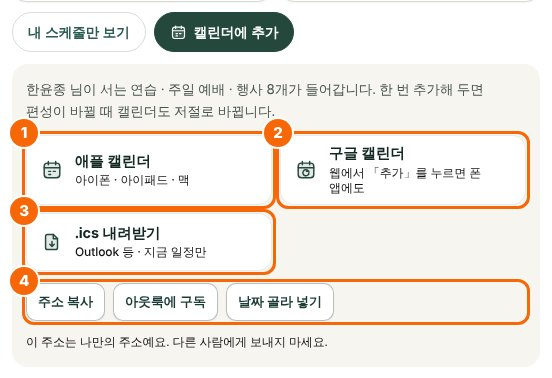
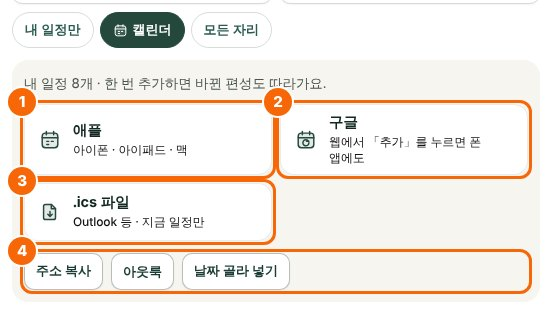
Schedule: compact controls, PDF in top toolbar; church address in calendar events
- Calendar LOCATION / Google location: "토론토영락교회 본당, 650 McNicoll Ave, Toronto, ON M2H 2E1"
  (custom place from the memo keeps the church address; a full street address is kept as-is)
- Top toolbar: 변경 기록 · PDF · 엑셀 올리기 (shorter labels, one row on phones)
- Range / person selects, 내 일정만 · 캘린더 · 모든 자리 and legend on one line
  (two lines on phones); hint text and role note removed
- Calendar panel trimmed: short line, three compact cards, small footer buttons
- Guide text and screenshots updated

Claude-Session: https://claude.ai/code/session_014VDXCwRXQi55bbQHujsnNa

diff --git a/public/hub/hubshim.js b/public/hub/hubshim.js
@@ -539,8 +539,8 @@ function offOne(key) {
 }
 
 /* ---------------------------------------------------------------- V14 스케줄 화면 — 청년부 앱(church-app v11) 스케줄과 같은 차림
- * 머리(제목 · 카드/테이블) → 기간 · 사람 강조 (반반) → [내 스케줄만 보기] [캘린더에 추가] (누르면 아래로 펼침)
- * → "○○ 자리 기준 순서 · 방송 칸은 숨김 [모든 자리 보기]" → PDF → 안내 · 범례 → 표/카드.
+ * 머리(제목 · 카드/테이블) → 한 줄: 기간 · 사람 강조 · [내 일정만] [캘린더] [모든 자리] · 범례 (폰은 두 줄)
+ * → 캘린더를 누르면 아래로 펼침 → 표/카드. PDF 는 맨 위 도구 줄(routes/schedule.js).
  * 테이블 날짜 칸은 한 칸에 "연습일(작게) / 주일(굵게)" — 따로 있던 연습 칸 · 곡 칸은 뺌 (연습 시간 · 곡은 날짜를 누르면 나옴) */
 var ST_KIND_NAME = { sing: '싱어', keys: '건반', drum: '드럼', bass: '베이스', egt: '일렉', agt: '어쿠기타' };
 var stViewGroupsBase = stViewGroups;
@@ -584,16 +584,15 @@ function calBox() {
   else if (L && L.feed) {
     var items = (L.items || []).filter(function (it) { return !it.off; });
     var ics = (window.PH_BASE || '') + '/cal/mine.ics?team=' + encodeURIComponent(HUB.team || '') + '&ids=' + encodeURIComponent(items.map(function (it) { return it.id; }).join(','));
-    h += '<p class="calh">' + esc(dispName(D.who)) + ' 님이 서는 연습 · 주일 예배 · 행사' + (items.length ? ' ' + items.length + '개' : '') + '가 들어갑니다. 한 번 추가해 두면 편성이 바뀔 때 캘린더도 저절로 바뀝니다.</p>' +
+    h += '<p class="calh">내 일정 ' + items.length + '개 · 한 번 추가하면 바뀐 편성도 따라가요.</p>' +
       '<div class="calbtns">' +
-        '<a class="calb" href="' + esc(L.feed.webcal) + '">' + calIco('apple') + '<span>애플 캘린더<small>아이폰 · 아이패드 · 맥</small></span></a>' +
-        '<a class="calb" href="' + esc(L.feed.google) + '" target="_blank" rel="noopener">' + calIco('google') + '<span>구글 캘린더<small>웹에서 「추가」를 누르면 폰 앱에도</small></span></a>' +
-        (items.length ? '<a class="calb" href="' + esc(ics) + '">' + calIco('file') + '<span>.ics 내려받기<small>Outlook 등 · 지금 일정만</small></span></a>' : '') +
+        '<a class="calb" href="' + esc(L.feed.webcal) + '">' + calIco('apple') + '<span>애플<small>아이폰 · 아이패드 · 맥</small></span></a>' +
+        '<a class="calb" href="' + esc(L.feed.google) + '" target="_blank" rel="noopener">' + calIco('google') + '<span>구글<small>웹에서 「추가」를 누르면 폰 앱에도</small></span></a>' +
+        (items.length ? '<a class="calb" href="' + esc(ics) + '">' + calIco('file') + '<span>.ics 파일<small>Outlook 등 · 지금 일정만</small></span></a>' : '') +
       '</div>' +
-      '<div class="calfoot"><button type="button" class="btn mini" onclick="calCopy(this)">주소 복사</button>' +
-        (L.feed.outlook ? '<a class="btn mini" href="' + esc(L.feed.outlook) + '" target="_blank" rel="noopener">아웃룩에 구독</a>' : '') +
-        '<button type="button" class="btn mini" data-mysched data-team="' + esc(HUB.team || '') + '">날짜 골라 넣기</button></div>' +
-      '<p class="calnote">이 주소는 나만의 주소예요. 다른 사람에게 보내지 마세요.</p>';
+      '<div class="calfoot"><button type="button" class="btn mini" onclick="calCopy(this)" title="나만의 주소예요 — 다른 사람에게 보내지 마세요">주소 복사</button>' +
+        (L.feed.outlook ? '<a class="btn mini" href="' + esc(L.feed.outlook) + '" target="_blank" rel="noopener">아웃룩</a>' : '') +
+        '<button type="button" class="btn mini" data-mysched data-team="' + esc(HUB.team || '') + '">날짜 골라 넣기</button></div>';
   }
   return h + '</div>';
 }
@@ -673,22 +672,22 @@ function schedTab() {
   }).join('') + '</div>';
 
   var kind = table ? stViewerKind() : '';
-  var roleBar = kind ? '<div class="strole"><span>' + (ST.allCols ? '모든 자리를 기본 순서로 보는 중' : esc(ST_KIND_NAME[kind] || '내') + ' 자리 기준 순서' + (D.committee ? '' : ' · 방송 칸은 숨김')) + '</span>' +
-    '<button type="button" class="btn mini" onclick="ST.allCols=!ST.allCols;render();">' + (ST.allCols ? '내 자리 기준으로' : '모든 자리 보기') + '</button></div>' : '';
+  var roleBtn = kind ? '<button type="button" class="stmb sm' + (ST.allCols ? ' on' : '') + '" aria-pressed="' + (ST.allCols ? 'true' : 'false') + '" title="' +
+    esc(ST.allCols ? '모든 자리를 기본 순서로 보는 중' : (ST_KIND_NAME[kind] || '내') + ' 자리 기준 순서' + (D.committee ? '' : ' · 방송 칸은 숨김')) + '" onclick="ST.allCols=!ST.allCols;render();">모든 자리</button>' : '';
 
   return stOffCard() + '<div class="panel stpanel"><div class="sechead"><span class="chip">스케줄</span>' + viewSeg + '</div>' +
-      '<div class="sttools">' + rangeSel + hlSel + '</div>' +
-      (D.who ? '<div class="stmbs">' +
-        '<button type="button" class="stmb' + (ST.onlyMine ? ' on' : '') + '" aria-pressed="' + (ST.onlyMine ? 'true' : 'false') + '" onclick="stOnlyMine(!ST.onlyMine)">내 스케줄만 보기</button>' +
-        '<button type="button" class="stmb' + (CAL.open ? ' on' : '') + '" aria-expanded="' + (CAL.open ? 'true' : 'false') + '" onclick="calToggle()">' + calIco('apple') + '캘린더에 추가</button></div>' + calBox() : '') +
-      roleBar +
-      '<div class="docbar">' + docBtn('스케줄 PDF 미리보기 · 다운로드', 'hubDoc(\'hubScheduleDoc\',[TOKEN,ST.range],\'stDocMsg\')') + '<p class="msg docmsg" id="stDocMsg"></p></div>' +
-      '<p class="hint sthint">' + (picking ? '안 되는 날짜를 눌러 고른 뒤 위 칸에 사유를 적고 저장하세요.'
-        : (D.canEdit ? '칸을 누르면 바로 배정합니다. 날짜를 누르면 그날 자세히 볼 수 있어요.'
-                     : '날짜를 누르면 그날 편성과 불가 사유를 볼 수 있어요.')) + '</p>' +
-      '<p class="lg"><span class="tn off">불가</span><span class="tn hl">강조</span><span class="tn guest">객원</span></p>' +
+      '<div class="stctl"><div class="sttools">' + rangeSel + hlSel + '</div>' +
+        '<div class="stmbs">' +
+          (D.who ? '<button type="button" class="stmb sm' + (ST.onlyMine ? ' on' : '') + '" aria-pressed="' + (ST.onlyMine ? 'true' : 'false') + '" onclick="stOnlyMine(!ST.onlyMine)">내 일정만</button>' +
+            '<button type="button" class="stmb sm' + (CAL.open ? ' on' : '') + '" aria-expanded="' + (CAL.open ? 'true' : 'false') + '" onclick="calToggle()">' + calIco('apple') + '캘린더</button>' : '') +
+          roleBtn +
+          '<span class="lg"><span class="tn off">불가</span><span class="tn hl">강조</span><span class="tn guest">객원</span></span>' +
+        '</div></div>' +
+      (D.who ? calBox() : '') +
+      '<p class="msg docmsg" id="stDocMsg"></p>' +
+      (picking ? '<p class="hint sthint">안 되는 날짜를 눌러 고른 뒤 위 칸에 사유를 적고 저장하세요.</p>' : '') +
       bar +
-      (ST.onlyMine && !shown.length ? '<p class="empty" style="margin:14px 4px;">이 기간에 ' + esc(dispName(D.who)) + ' 님이 서는 날이 없어요. 기간을 바꾸거나 \'내 스케줄만 보기\'를 꺼 보세요.</p>' :
+      (ST.onlyMine && !shown.length ? '<p class="empty" style="margin:14px 4px;">이 기간에 ' + esc(dispName(D.who)) + ' 님이 서는 날이 없어요. 기간을 바꾸거나 \'내 일정만\'을 꺼 보세요.</p>' :
       !table ? stCards(groups, kn, picking, mineSet)
         : '<div class="stwrap"><table class="st"><thead>' + head1 + head2 + '</thead><tbody>' + body + '</tbody></table></div>') +
       '<p class="msg" id="stMsg"></p>' +

diff --git a/routes/guide.js b/routes/guide.js
@@ -197,28 +197,27 @@ const SECTIONS = [
     ${stageBody()}`)],
   ['schedule', '스케줄표', sec('schedule', 7, '스케줄표', '날짜별로 누가 어떤 자리에 서는지, 언제 연습하는지 한눈에 봐요.', `
     ${fig('schedule', '스케줄표 화면 (테이블)', [
-      '<b>변경 기록</b> — 누가 · 언제 · 어느 예배의 편성 · 불가 · 연습일을 바꿨는지 봐요. 옆의 <b>엑셀로 스케줄 올리기</b>는 관리자만 보여요.',
+      '<b>변경 기록 · PDF · 엑셀 올리기</b> — 누가 언제 무엇을 바꿨는지 보고, 스케줄표를 PDF로 받아요. <b>엑셀 올리기</b>는 관리자만 보여요.',
       '<b>내가 안 되는 날</b> — 날짜를 누르면 바로 불가로 저장돼요. 다시 누르면 지워져요. <em>둘 다 · 금요일 연습만 · 주일만</em>과 사유도 고를 수 있어요.',
       '<b>카드 / 테이블</b> — 보기 방식을 바꿔요. 카드는 날짜마다 한 장, 테이블은 여러 주를 한 표로.',
       '<b>기간 · 사람 강조</b> — 보여줄 기간을 고르고, 사람을 고르면 그 사람이 서는 칸이 옅게 강조돼요.',
-      '<b>내 스케줄만 보기 · 캘린더에 추가</b> — 내 날만 남기거나, 내가 서는 날을 내 캘린더에 넣어요. (아래 그림)',
+      '<b>내 일정만 · 캘린더 · 모든 자리</b> — 내 날만 남기고, 내가 서는 날을 내 캘린더에 넣고(아래 그림), 칸을 기본 순서로 봐요.',
       '<b>날짜</b> — 작은 줄이 연습일, 굵은 줄이 주일이에요. 누르면 그날 편성 · 불가 · 연습 시간을 자세히 보고, 연습일 줄을 누르면 연습일을 바꿔요.'])}
     <ul class="gd-list">
-      <li><b>칸 순서</b> — 테이블은 내 포지션에 맞춰 칸 순서가 바뀌어요(싱어는 싱어 먼저, 세션은 내 악기 먼저). <b>모든 자리 보기</b>를 누르면 기본 순서로 돌아가요.</li>
+      <li><b>칸 순서</b> — 테이블은 내 포지션에 맞춰 칸 순서가 바뀌어요(싱어는 싱어 먼저, 세션은 내 악기 먼저). <b>모든 자리</b>를 누르면 기본 순서로 돌아가요.</li>
       <li><b>칸을 누르면</b> 바로 배정해요. 색 표시: <b>불가</b>(안 되는 사람) · <b>강조</b>(고른 사람) · <b>객원</b>(점선). 맨 끝 <b>불가</b> 칸에 그날 안 되는 사람이 모여요.</li>
       <li><b>바뀐 곳 강조</b> — 마지막으로 본 뒤 다른 사람이 바꾼 칸은 테두리와 <em>변경</em> 표시가 붙어요. <b>확인</b>을 누르면 강조가 꺼져요.</li>
-      <li><b>스케줄 PDF</b> — 인쇄하거나 카톡으로 보낼 PDF를 만들어요.</li>
-      <li><b>연습 시간 · 장소</b> — 연습일을 바꿀 때 <em>메모</em>에 "오후 7시 · 소예배실"처럼 적으면 연습 콘티 · 캘린더 · 안내 메일에 그 시간이 들어가요. 비워 두면 관리에서 정한 기본 시간이에요.</li>
+            <li><b>연습 시간 · 장소</b> — 연습일을 바꿀 때 <em>메모</em>에 "오후 7시 · 소예배실"처럼 적으면 연습 콘티 · 캘린더 · 안내 메일에 그 시간이 들어가요. 비워 두면 관리에서 정한 기본 시간이에요.</li>
     </ul>
-    <h3>캘린더에 추가 — 스케줄이 바뀌면 캘린더도 같이</h3>
-    ${fig('mysched', '캘린더에 추가', [
+    <h3>캘린더 — 스케줄이 바뀌면 캘린더도 같이</h3>
+    ${fig('mysched', '캘린더', [
       '<b>애플 캘린더</b> — 아이폰 · 아이패드 · 맥 캘린더에 <b>구독 캘린더</b>로 들어가요.',
       '<b>구글 캘린더</b> — 구글 캘린더 웹에서 <em>추가</em>를 누르면 폰의 구글 캘린더 앱에도 나와요.',
       '<b>.ics 내려받기</b> — 지금 일정만 파일 하나로 받아요(아웃룩 등). 그 순간의 사본이라 바뀌어도 따라가지 않아요.',
-      '<b>주소 복사 · 아웃룩에 구독 · 날짜 골라 넣기</b> — 다른 캘린더 앱에 주소를 붙여 넣거나, 넣을 날만 골라 하나씩 넣어요.'])}
+      '<b>주소 복사 · 아웃룩 · 날짜 골라 넣기</b> — 다른 캘린더 앱에 주소를 붙여 넣거나, 넣을 날만 골라 하나씩 넣어요.'])}
     <p>애플 · 구글 · 아웃룩으로 한 번 구독해 두면, 앞으로 새로 배정되는 날도 저절로 들어오고 편성 · 연습 시간이 바뀌거나 불가로 표시하면 캘린더에서도 바뀌거나 빠져요. 아이폰 · 맥 · 아웃룩은 몇 시간 안에, 구글은 반나절쯤 걸릴 수 있어요.</p>
     ${warn('구독 주소는 나만의 주소예요. 다른 사람에게 보내지 마세요.')}
-    <p>캘린더 일정 제목은 <b>3부찬양팀 연습 - 피아노</b> · <b>3부찬양팀 주일 - 피아노</b>처럼 나오고, 일정 안에는 안내 메일과 같은 순서로 시간 · 장소, 내 포지션, 콘티 곡, 함께 서는 분, (주일은) 연습 녹음, 유튜브로 전곡 듣기, 콘티 링크가 적혀 있어요.</p>
+    <p>캘린더 일정 제목은 <b>3부찬양팀 연습 - 피아노</b> · <b>3부찬양팀 주일 - 피아노</b>처럼 나오고, 위치는 <b>토론토영락교회 본당 (650 McNicoll Ave)</b>으로 들어가 지도에서 바로 열려요. 일정 안에는 안내 메일과 같은 순서로 시간 · 장소, 내 포지션, 콘티 곡, 함께 서는 분, (주일은) 연습 녹음, 유튜브로 전곡 듣기, 콘티 링크가 적혀 있어요.</p>
 `)],
 
   ['events', '주일 외 찬양', sec('events', 8, '주일 외 찬양', '주일예배가 아닌 날(성탄절 · 송구영신예배 · 부흥회 등)에 서는 일정을 따로 관리해요.', `
@@ -283,7 +282,7 @@ const SECTIONS = [
     <details class="gd-q"><summary>화면이 이상해요 / 옛날 화면이에요</summary><p>배너 오른쪽 위 <b>새로고침</b> 버튼을 누르거나 페이지를 다시 열어 보세요.</p></details>
     <details class="gd-q"><summary>못 보는 메뉴가 있어요</summary><p>객원 멤버에게는 연습 콘티 · 주일 외 찬양 · 라이브러리가 보이지 않아요. 공지 및 모임 · 장비 · 수리는 지금 모두에게 잠시 숨겨 두었어요. 정식 팀원인데 다른 메뉴가 안 보이면 관리자에게 문의하세요.</p></details>
     <details class="gd-q"><summary>연습 시간이 바뀌었어요</summary><p>스케줄표에서 그 예배의 <b>연습</b> 칸을 눌러 날짜를 고르고, <b>메모</b>에 "오후 7시 · 소예배실"처럼 적어 저장하세요. 연습 콘티 · 캘린더 · 안내 메일에 바로 반영돼요. 이미 안내 메일이 나갔다면 관리자가 <b>관리 → 자동 안내 → 지금 보내기</b>([변경] 체크)로 다시 알려요.</p></details>
-    <details class="gd-q"><summary>내 캘린더에 서는 날을 넣고 싶어요</summary><p>스케줄표의 <b>캘린더에 추가</b>를 누르고 애플 캘린더 · 구글 캘린더 중 하나를 고르세요. 한 번만 하면 바뀐 스케줄도 저절로 따라가요.</p></details>`)],
+    <details class="gd-q"><summary>내 캘린더에 서는 날을 넣고 싶어요</summary><p>스케줄표의 <b>캘린더</b>를 누르고 애플 · 구글 중 하나를 고르세요. 한 번만 하면 바뀐 스케줄도 저절로 따라가요.</p></details>`)],
 ];
 
 router.get('/guide', async (req, res) => {

diff --git a/lib/practiceView.js b/lib/practiceView.js
@@ -160,9 +160,17 @@ function calEvent(team, g, mine, baseUrl) {
     details: [pos.length ? '내 포지션: ' + pos.join(' · ') : '', '연습 콘티: ' + url].filter(Boolean).join('\n'), url,
   };
 }
+/** 캘린더 위치 — 지도 앱이 알아보도록 교회 주소까지 ("토론토영락교회 본당, 650 McNicoll Ave, Toronto, ON M2H 2E1").
+ *  메모에 다른 곳 주소(숫자로 시작하는 번지)를 적었으면 그대로 */
+const CHURCH = '토론토영락교회', CHURCH_ADDR = '650 McNicoll Ave, Toronto, ON M2H 2E1';
+function calLocation(place) {
+  const p = String(place || '').trim();
+  if (/\d+\s+[A-Za-z]/.test(p)) return p;
+  return `${CHURCH} ${(p || '본당').replace(CHURCH, '').trim() || '본당'}, ${CHURCH_ADDR}`;
+}
 function googleCalUrl(ev) {
   const e = ev.end ? { date: ev.date, time: ev.end } : endOf(ev.date, ev.time);
-  const q = new URLSearchParams({ action: 'TEMPLATE', text: ev.title, dates: stamp(ev.date, ev.time) + '/' + stamp(e.date, e.time), ctz: TZ, details: ev.details, location: ev.place });
+  const q = new URLSearchParams({ action: 'TEMPLATE', text: ev.title, dates: stamp(ev.date, ev.time) + '/' + stamp(e.date, e.time), ctz: TZ, details: ev.details, location: calLocation(ev.place) });
   return 'https://calendar.google.com/calendar/render?' + q.toString();
 }
 const icsEsc = (s) => String(s || '').replace(/\\/g, '\\\\').replace(/\n/g, '\\n').replace(/([,;])/g, '\\$1');
@@ -171,7 +179,7 @@ function vevent(ev, now) {
   const e = ev.end ? { date: ev.date, time: ev.end } : endOf(ev.date, ev.time);
   const uid = ev.uid || `practice-${ev.date}-${require('crypto').createHash('sha1').update(ev.title).digest('hex').slice(0, 10)}@praise-broadcast-hub`;
   return ['BEGIN:VEVENT', `UID:${uid}`, `DTSTAMP:${now}`, `DTSTART;TZID=${TZ}:${stamp(ev.date, ev.time)}`, `DTEND;TZID=${TZ}:${stamp(e.date, e.time)}`,
-    `SUMMARY:${icsEsc(ev.title)}`, `LOCATION:${icsEsc(ev.place)}`, `DESCRIPTION:${icsEsc(ev.details)}`, `URL:${ev.url}`,
+    `SUMMARY:${icsEsc(ev.title)}`, `LOCATION:${icsEsc(calLocation(ev.place))}`, `DESCRIPTION:${icsEsc(ev.details)}`, `URL:${ev.url}`,
     'BEGIN:VALARM', 'ACTION:DISPLAY', `DESCRIPTION:${icsEsc(ev.alarm || '찬양 연습')}`, 'TRIGGER:-PT1H', 'END:VALARM',
     'END:VEVENT'];
 }
@@ -189,4 +197,4 @@ function icsText(evs, cal) {
     .concat(['END:VCALENDAR']).join('\r\n') + '\r\n';
 }
 
-module.exports = { groups, weekNotice, standing, targetName, md, whenOf, calEvent, googleCalUrl, icsText, enTime };
+module.exports = { calLocation, groups, weekNotice, standing, targetName, md, whenOf, calEvent, googleCalUrl, icsText, enTime };

diff --git a/public/hub/yn-adapt.css b/public/hub/yn-adapt.css
@@ -482,3 +482,27 @@ html:not([data-theme="light"]) .yn a.calb { background: rgba(255,255,255,.04); b
 }
 html[data-theme="light"] body .yn .stpanel .lg .tn.hl.hl, html[data-theme="light"] body .yn .stpanel .tp.hl.hl { background: #DCE6E0 !important; color: #1F3F33 !important; }
 html[data-theme="light"] .yn .stpanel .lg .tn.off { background: #F3E9E5 !important; color: #9A4B3C !important; }
+
+/* V14.1 — 조작 줄 한 줄로 (기간 · 사람 · 내 일정만 · 캘린더 · 모든 자리 · 범례) */
+.yn .stpanel .stctl { display: flex; flex-wrap: wrap; align-items: center; gap: 8px; margin: 0 4px 12px; }
+.yn .stpanel .stctl .sttools { display: flex !important; gap: 8px; padding: 0; flex: 0 1 380px; min-width: 0; }
+.yn .stpanel .stctl .sttools select { flex: 1 1 0; min-width: 0; min-height: 38px; padding-top: 6px; padding-bottom: 6px; font-size: 14px; border-radius: 10px !important; }
+.yn .stpanel .stctl .stmbs { margin: 0; flex: 1 1 auto; align-items: center; gap: 6px; }
+.yn .stmb.sm { min-height: 36px; padding: 0 12px; font-size: 13px; gap: 5px; }
+.yn .stmb.sm .calic { width: 15px; height: 15px; }
+.yn .stpanel .stctl .lg { margin: 0 0 0 auto; gap: 4px; }
+.yn .stpanel .stctl .lg .tn { padding: 1px 8px; font-size: 11.5px; }
+.yn .stpanel #stDocMsg:empty { display: none; }
+.yn .stpanel #stDocMsg { margin: 0 4px 8px; }
+@media (max-width: 640px) {
+  .yn .stpanel .stctl .sttools { flex: 1 1 100%; }
+  .yn .stpanel .stctl .lg { display: none; }
+}
+.yn .calbox { padding: 12px; }
+.yn .calbox .calh { margin-bottom: 10px; }
+@media (max-width: 560px) {
+  .yn .calbtns { grid-template-columns: repeat(3, 1fr); gap: 6px; }
+  .yn a.calb { flex-direction: column; justify-content: center; gap: 4px; min-height: 64px; padding: 8px 4px; text-align: center; font-size: 12.5px; }
+  .yn a.calb small { display: none; }
+  .yn .calfoot { gap: 6px; margin-top: 8px; }
+}

diff --git a/routes/schedule.js b/routes/schedule.js
@@ -86,7 +86,7 @@ router.get('/schedule', requireTeam, async (req, res) => {
   await hubPage.send(req, res, {
     nav: 'schedule', tab: 'sched', title: `${team} 스케줄표`,
     hero: { eyebrow: `${team} · 스케줄표`, title: '스케줄표', sub: '포지션 편성 · 연습일 · 내가 안 되는 날' },
-    extra: `<div class="ph-adminrow st-toolrow"><a class="ph-mini" href="/schedule/history?team=${encodeURIComponent(team)}">${ui.icon('timer')} 변경 기록</a>${req.ctx.isAdmin ? `<a class="ph-mini" href="/schedule/import?team=${encodeURIComponent(team)}">${ui.icon('download')} 엑셀로 스케줄 올리기</a>` : ''}</div>`,
+    extra: `<div class="ph-adminrow st-toolrow"><a class="ph-mini" href="/schedule/history?team=${encodeURIComponent(team)}">${ui.icon('timer')} 변경 기록</a><button type="button" class="ph-mini" onclick="hubDoc('hubScheduleDoc',[TOKEN,ST.range],'stDocMsg')" title="스케줄표 PDF 미리보기 · 다운로드">${ui.icon('page')} PDF</button>${req.ctx.isAdmin ? `<a class="ph-mini" href="/schedule/import?team=${encodeURIComponent(team)}" title="엑셀로 스케줄 올리기">${ui.icon('download')} 엑셀 올리기</a>` : ''}</div>`,
   });
 });
 

diff --git a/scripts/guide-shots.js b/scripts/guide-shots.js
@@ -105,7 +105,7 @@ const SHOTS = {
     marks: ['.pc-strip .ph-wstrip-cell.on', '.pc-head', '.pc-target .pc-thead', '.pc-target .cn-toolcard', '.pc-target .pc-people'] },
   practice_rec: { url: '/practice-conti', clip: ['.pc-target .pc-recs'], pad: 12 },
   schedule: { url: '/schedule', wait: '.st', clip: ['.st-toolrow', '.stpanel'], maxH: 1050,
-    marks: ['.st-toolrow a[href^="/schedule/history"]', '.offcard', '.stseg', '.sttools', '.stmbs', 'th.dc'] },
+    marks: ['.st-toolrow', '.offcard', '.stseg', '.sttools', '.stmbs', 'th.dc'] },
   mysched: { url: '/schedule', wait: '.st', w: 640, before: async (p) => { await p.click('.stmbs .stmb:nth-child(2)'); await p.waitForSelector('.calbox .calb'); await p.waitForTimeout(300); },
     clip: ['.stmbs', '.calbox'], pad: 12, marks: ['.calb:nth-child(1)', '.calb:nth-child(2)', '.calb:nth-child(3)', '.calfoot'] },
   events: { url: '/events', clip: ['.ph-card'], maxH: 520 },

diff --git a/public/css/app.css b/public/css/app.css
@@ -2425,3 +2425,4 @@ input[type="checkbox"], input[type="radio"] { accent-color: var(--accent); }
 .msd-subbtns { display: grid; grid-template-columns: repeat(4, minmax(0, 1fr)); gap: 6px; }
 .msd-btn.sm { min-height: 42px; font-size: 13.5px; font-weight: 700; text-decoration: none; padding: 0 8px; }
 @media (max-width: 520px) { .msd-subbtns { grid-template-columns: 1fr 1fr; } }
+@media (max-width: 560px) { .st-toolrow { gap: 6px; flex-wrap: nowrap; } .st-toolrow .ph-mini { min-height: 38px; padding: 0 11px; font-size: 13px; border-radius: 12px; white-space: nowrap; } }
